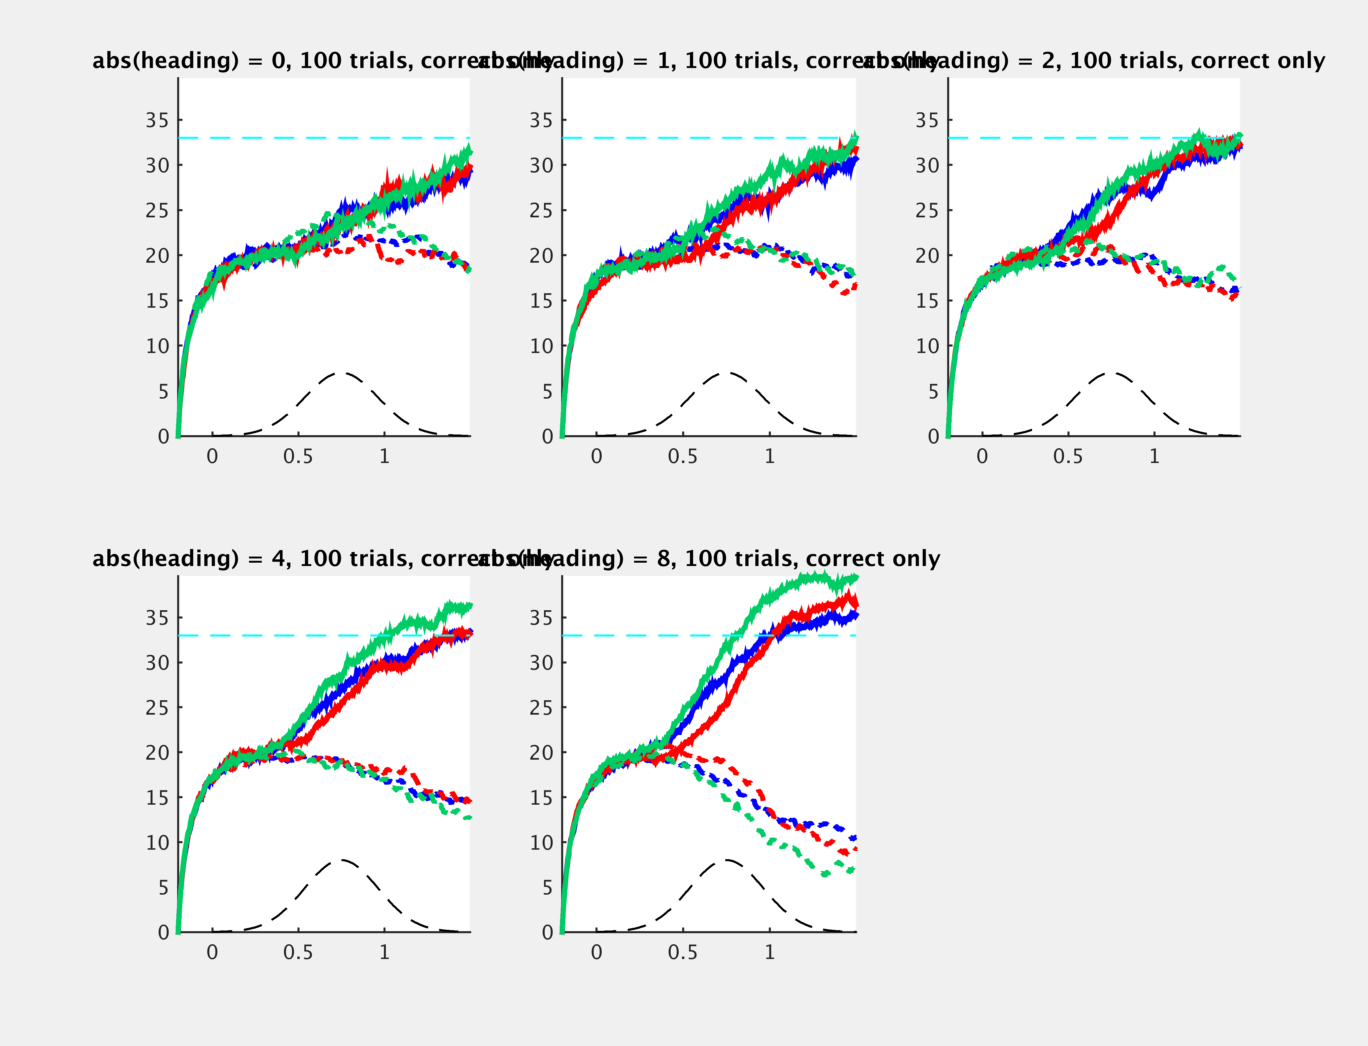
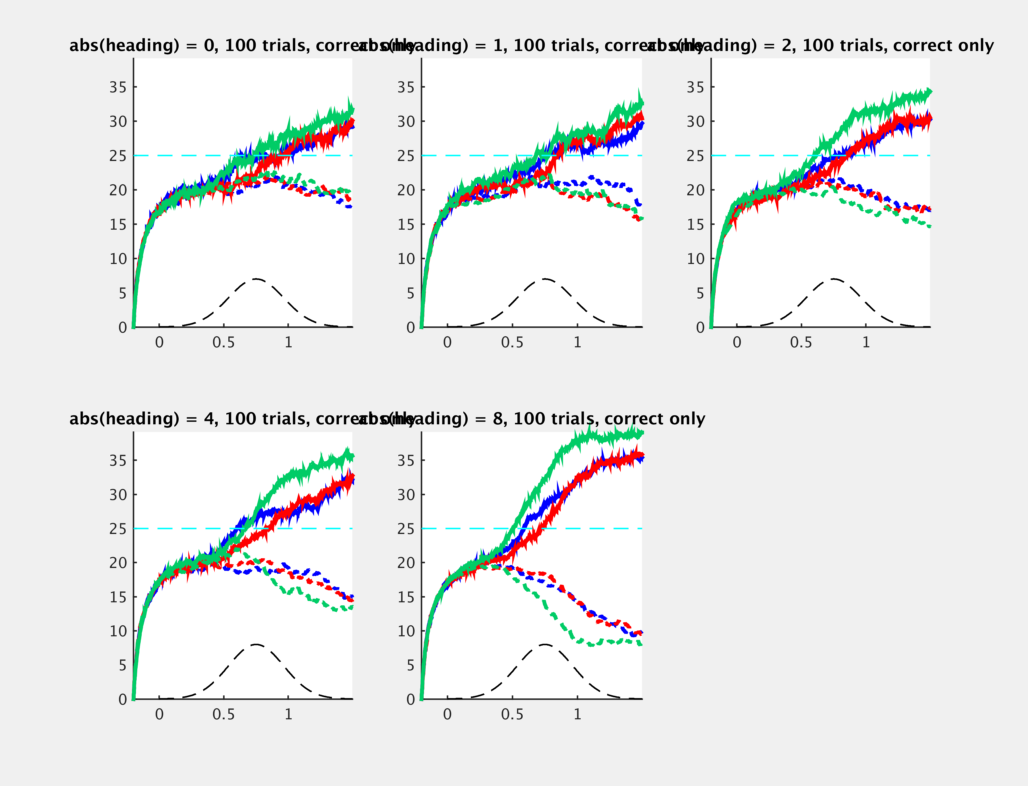
20170420 Smoothed decision-bound, improved figures, export_fig

diff --git a/lip_HH.m b/lip_HH.m
@@ -3,10 +3,11 @@
 % Modified by HH 2017 @ UNIGE
 % Adapted for the vestibular-visual multisensory heading discrimintation task
 %%%%%%%%%%%%%%%%%%%%%%%%%%%%%%%%%%%%%%%%%%%%%%
-% function lip_HH
-tic
-clear
-clear global
+function lip_HH
+
+total_time = tic;
+%clear
+%clear global
 
 if(~isdeployed)
   cd(fileparts(which(mfilename)));
@@ -14,8 +15,9 @@ end
 addpath(genpath(pwd));
 
 if strcmp(version('-release'),'2014b')    % ION cluster;
+   hostname = char( getHostName( java.net.InetAddress.getLocalHost)) % Get host name
    if isempty(gcp('nocreate'))
-       parpool(20);
+       parpool(hostname(1:strfind(hostname,'.')-1),20);
    end
 end
 
@@ -57,9 +59,9 @@ prefs_lip = linspace(-180,180,N_lip);
 %%%%%%%%%%%%%%%%%%%%%%%%%%%%%%%%%%%%%%%%%%%%%%%%%%%%%%%
 % Decision bound
 if_bounded = 1; % if_bounded = 1 means that the trial stops at the bound (reaction time version)
-f_bound = @(x) max(x);
+% f_bound = @(x) max(x);  % A bug: if lip_HH is a function, this anonymous function cannot be broadcasted into parfor loop
 %  f_bound = @(x) abs(x(right_targ_ind)-x(left_targ_ind));
-decis_thres = 33*[1 1 1]; % bound height, for different conditions
+decis_thres = 30*[1 1 1+6/30]; % bound height, for different conditions
 att_gain_stim_after_hit_bound = [0 0 0];
 %%%%%%%%%%%%%%%%%%%%%%%%%%%%%%%%%%%%%%%%%%%%%%%%%%%%%%%
 
@@ -85,7 +87,7 @@ unique_heading = [0 1 2 4 8];
 unique_condition = [1 2 3];
 % unique_heading = [0 8];
 % unique_condition = [3];
-N_trial = 100; % For each condition
+N_trial = 50; % For each condition
 %%%%%%%%%%%%%%%%%%%%%%%%%%%%%%%%%%%%%%%%%%%%%%%%%%%
 
 
@@ -201,7 +203,7 @@ threshold_int = 0.0;
 %%%%%%%%%%%%%%%%%%%%%%%%%%%%%%%%%%%%%%
 g_w_lip_int = 12;
 K_lip_int = 5;
-dc_w_lip_int = -4.2;
+dc_w_lip_int = -4.3;
 
 amp_I_lip_int = 0;  % Mexico hat shape
 K_lip_int_I = 2;
@@ -211,7 +213,7 @@ K_lip_int_I = 2;
 %%%%%%%%%%%%%%%%%%%%%%%%%%%%%%%%%%%%%%
 g_w_lip_lip = 10;
 K_lip_lip = 20;
-dc_w_lip_lip = -8;
+dc_w_lip_lip = -6;
 
 amp_I_lip = 0;  % Mexico hat shape
 K_lip_I = 2;
@@ -243,7 +245,7 @@ fisher_N_window = 4;
 % 1. firing rate in Hz (rate_xxx),
 % 2. firing probability for each bin (proba_xxx),
 % 3. binary spike train for each bin (spikes_xxx)
-% The network dynamics are computed like: Rate_in --> Prob_in --> Spike_in --> Spike_out --> Rate_out
+% The network dynamics are computed like: Rate_in --> Prob_in --> Spike_in --> Spikes_out --> Rate_out
 
 aux1_rate_int = zeros(N_int,trial_dur_total_in_bins+2);
 aux2_rate_int = zeros(N_int,trial_dur_total_in_bins+2);
@@ -290,12 +292,12 @@ w_lip_lip = zeros(N_lip,N_lip);
 for nn=1:N_int
     
     % -- VIS->Int, Vest->Int --
-    %     w_int_vis(nn,:) = g_w_int_vis/N_vis *(exp(K_int_vis * (cos((prefs_int(nn)-(-90*(prefs_vis<0)+90*(prefs_vis>0)))/180*pi)-1)))...
-    %         .* abs(sin(prefs_vis/180*pi))... % Gaussian(theta_int - +/-90) * Sin(heading)
-    %         + dc_w_int_vis/N_vis;   % Offset
-    %     w_int_vest(nn,:) = g_w_int_vest/N_vest *(exp(K_int_vest * (cos((prefs_int(nn)-(-90*(prefs_vest<0)+90*(prefs_vest>0)))/180*pi)-1)))...
-    %         .* abs(sin(prefs_vest/180*pi))... % Gaussian(theta_int - +/-90) * Sin(heading)
-    %         + dc_w_int_vest/N_vest;   % Offset
+%         w_int_vis(nn,:) = g_w_int_vis/N_vis *(exp(K_int_vis * (cos((prefs_int(nn)-(-90*(prefs_vis<0)+90*(prefs_vis>0)))/180*pi)-1)))...
+%             .* abs(sin(prefs_vis/180*pi))... % Gaussian(theta_int - +/-90) * Sin(heading)
+%             + dc_w_int_vis/N_vis;   % Offset
+%         w_int_vest(nn,:) = g_w_int_vest/N_vest *(exp(K_int_vest * (cos((prefs_int(nn)-(-90*(prefs_vest<0)+90*(prefs_vest>0)))/180*pi)-1)))...
+%             .* abs(sin(prefs_vest/180*pi))... % Gaussian(theta_int - +/-90) * Sin(heading)
+%             + dc_w_int_vest/N_vest;   % Offset
     
     % Added a K_int_vis_sin factor to tweak the slices of weight matrix along the vis/vest axis (sigmoid --> step)
     w_int_vis(nn,:) = g_w_int_vis/N_vis *(exp(K_int_vis * (cos((prefs_int(nn)-(-90*(prefs_vis<0)+90*(prefs_vis>0)))/180*pi)-1)))...
@@ -390,6 +392,7 @@ w_cov_vest = real(sqrtm(cov_vest));
 %%%%%%%%%%%%%%%%%%%%%%%%%%%
 %% Main loop
 %%%%%%%%%%%%%%%%%%%%%%%%%%%
+par_time = tic;
 
 % === To reduce the overheads, I put all conditions*heading*reps into a large matrix. HH20170417 ===
 [x,y]=meshgrid(1:length(unique_condition),1:length(unique_heading));
@@ -476,8 +479,9 @@ parfor_progress(n_parfor_loops);
 parfor tt = 1:n_parfor_loops % For each trial
     
     % -- Get data from cheat sheet --
-    cc_this = cc_hh_cheatsheet(tt,1);
-    hh_this = cc_hh_cheatsheet(tt,2);
+    cond_this = cc_hh_cheatsheet(tt,:);
+    cc_this = cond_this(1);
+    hh_this = cond_this(2);
     
     % -- Target input spike train --
     spikes_target_this = rand(N_lip,trial_dur_total_in_bins)<(aux_proba_target);
@@ -554,7 +558,9 @@ parfor tt = 1:n_parfor_loops % For each trial
         
         % -- Termination --
         if if_bounded && k*dt>stim_on_time && att_gain_stim == 1 ...
-                && (f_bound(decision_ac(:,k+1)) > decis_thres_this)
+               ... && (max(decision_ac(:,k+1)) > decis_thres_this) 
+                && max(mean(mean(decision_ac(left_targ_ind-5:left_targ_ind+5,max(1,k-20):k+1))),...
+                       mean(mean(decision_ac(right_targ_ind-5:right_targ_ind+5,max(1,k-20):k+1)))) > decis_thres_this
             % Set the attention for motion stimuli to zero
             att_gain_stim = att_gain_this;
             RT(tt) = (k-stim_on_time_in_bins)*dt;
@@ -590,22 +596,24 @@ rate_int = reshape(rate_int,N_lip,trial_dur_total_in_bins,N_trial,length(unique_
 rate_lip = reshape(rate_lip,N_lip,trial_dur_total_in_bins,N_trial,length(unique_heading),length(unique_condition));
 RT = reshape(RT,N_trial,length(unique_heading),length(unique_condition));
 
+par_time = toc(par_time)
 
 %% == Plotting example network activities ==
 to_plot_heading = length(unique_heading);
 to_plot_cond = length(unique_condition);
 
-rate_real_vis_aver = nanmean(spikes_vis(:,:,:,to_plot_heading,to_plot_cond),3)/dt;
-rate_real_vest_aver = nanmean(spikes_vest(:,:,:,to_plot_heading,to_plot_cond),3)/dt;
-rate_expected_int_aver = nanmean(rate_int(:,:,:,to_plot_heading,to_plot_cond),3);
-rate_expected_lip_aver = nanmean(rate_lip(:,:,:,to_plot_heading,to_plot_cond),3);
-rate_real_int_aver = nanmean(spikes_int(:,:,:,to_plot_heading,to_plot_cond),3)/dt;
-rate_real_lip_aver = nanmean(spikes_lip(:,:,:,to_plot_heading,to_plot_cond),3)/dt;
-rate_real_targ_aver = nanmean(spikes_target(:,:,:,to_plot_heading,to_plot_cond),3)/dt;
-
 % %{
 %%  ====== Animation ======
 if if_debug
+    
+    rate_real_vis_aver = nanmean(spikes_vis(:,:,:,to_plot_heading,to_plot_cond),3)/dt;
+    rate_real_vest_aver = nanmean(spikes_vest(:,:,:,to_plot_heading,to_plot_cond),3)/dt;
+    rate_expected_int_aver = nanmean(rate_int(:,:,:,to_plot_heading,to_plot_cond),3);
+    rate_expected_lip_aver = nanmean(rate_lip(:,:,:,to_plot_heading,to_plot_cond),3);
+    rate_real_int_aver = nanmean(spikes_int(:,:,:,to_plot_heading,to_plot_cond),3)/dt;
+    rate_real_lip_aver = nanmean(spikes_lip(:,:,:,to_plot_heading,to_plot_cond),3)/dt;
+    rate_real_targ_aver = nanmean(spikes_target(:,:,:,to_plot_heading,to_plot_cond),3)/dt;
+    
     figure(1001); clf
     
     for ttt = 1:10:length(ts)
@@ -671,7 +679,7 @@ end
 
 % ====== Example Pref and Null traces ======
 %%{
-if if_debug
+if if_debug || 1
     set(figure(1002),'name','Example PSTHs'); clf;
     set(gcf,'uni','norm','pos',[0.003       0.039       0.555       0.878]);
     
@@ -718,7 +726,59 @@ if if_debug
         %     title(sprintf('averaged of all %g trials (correct + wrong), pref-null',N_trial));
         %     axis tight;
     end
+    export_fig('-painters','-nocrop','-m1.5' ,sprintf('./result/example_8degree_%s.png',hostname));
+    
+    to_plot_heading  = 1; 
+    set(figure(1003),'name','Example PSTHs'); clf;
+    set(gcf,'uni','norm','pos',[0.003       0.039       0.555       0.878]);
+    
+    for cc = 1:length(unique_condition)
+        % --- LIP ---
+        subplot(3,2,2*unique_condition(cc)-1);
+        
+        for trialtoplot = 1:ceil(N_trial/10):N_trial
+            plot(ts,rate_lip(right_targ_ind,:,trialtoplot,to_plot_heading,cc),'color',colors(unique_condition(cc),:),'linewid',2); hold on;
+            plot(ts,rate_lip(left_targ_ind,:,trialtoplot,to_plot_heading,cc),'--k','linewid',1);
+        end
+        plot(t_motion,vel/max(vel)*max(ylim)/3,'k--');
+        axis tight;
+        
+        if if_bounded
+            plot(xlim,[decis_thres(unique_condition(cc)) decis_thres(unique_condition(cc))],'c--');
+            %         ylim([min(ylim),decis_thres(k)*1.1]);
+        end
+        
+        title(sprintf('rate\\_lip, heading = %g, coh = %g',unique_heading(to_plot_heading),coherence));
+        
+        % --- Int ---
+        subplot(3,2,2*unique_condition(cc));
+        
+        for trialtoplot = 1:ceil(N_trial/10):N_trial
+            plot(ts,rate_int(right_targ_ind,:,trialtoplot,to_plot_heading,cc),'color',colors(unique_condition(cc),:),'linewid',2); hold on;
+            plot(ts,rate_int(left_targ_ind,:,trialtoplot,to_plot_heading,cc),'--k','linewid',1);
+        end
+        plot(t_motion,vel/max(vel)*max(ylim)/3,'k--');
+        axis tight;
+        
+        %     if if_bounded
+        %         plot(xlim,[decis_thres(unique_condition(cc)) decis_thres(unique_condition(cc))],'c--');
+        % %         ylim([min(ylim),decis_thres*1.1]);
+        %     end
+        
+        title(sprintf('rate\\_int, heading = %g, coh = %g',unique_heading(to_plot_heading),coherence));
+        
+        
+        %     subplot(3,2,2);
+        %     plot(ts,nanmean(rate_lip(right_targ_ind,:,:,to_plot_heading,cc),3)...
+        %         -nanmean(rate_lip(left_targ_ind,:,:,to_plot_heading,cc),3),'color',colors(unique_condition(cc),:),'linew',2);
+        %     hold on;
+        %     title(sprintf('averaged of all %g trials (correct + wrong), pref-null',N_trial));
+        %     axis tight;
+    end
+    export_fig('-painters','-nocrop','-m1.5' ,sprintf('./result/example_0degree_%s.png',hostname));
+    
 end
+
 %}
 
 % ====== Behavior performance ======
@@ -760,24 +820,30 @@ for cc = 1:length(unique_condition)
         
         RT_this_cc_mean(hh,1) = mean(RT(select_correct,hh,cc),1);
         RT_this_cc_se(hh,1) = std(RT(select_correct,hh,cc),[],1);
+        
+        RT_this_cc_mean_wrong(hh,1) = mean(RT(~select_correct,hh,cc),1);
+        RT_this_cc_se_wrong(hh,1) = std(RT(~select_correct,hh,cc),[],1);
+
     end
     
     errorbar(unique_heading+(cc-2)*0.2,RT_this_cc_mean,RT_this_cc_se,'o-','color',colors(unique_condition(cc),:),...
         'markerfacecolor',colors(unique_condition(cc),:),'markersize',10,'linew',2);
     hold on;
-    
-    plot(vel/max(vel)*max(xlim)/5,t_motion,'k--');
-    title(sprintf('RT, all trials (correct + wrong), Bound = %s',num2str(decis_thres)));
-
-
+    errorbar(unique_heading+(cc-2)*0.2,RT_this_cc_mean_wrong,RT_this_cc_se_wrong,'o--','color',colors(unique_condition(cc),:),...
+        'markerfacecolor',colors(unique_condition(cc),:),'markersize',7,'linew',1);
 end
 
+subplot(2,1,2);
+plot(vel/max(vel)*max(xlim)/5,t_motion,'k--');
+title(sprintf('RT, all trials (correct), Bound = %s',num2str(decis_thres)));
+
+subplot(2,1,1);
 if length(unique_condition) == 3
     pred_thres = (psycho(1,2)^(-2)+psycho(2,2)^(-2))^(-1/2);
     set(text(min(xlim),0.4+0.1*(cc+1),sprintf('pred = %g\n',pred_thres)),'color','k');
 end
 
-%  export_fig('-painters','-nocrop','-q100','-m2' ,sprintf('./result/behavior.png'));
+export_fig('-painters','-nocrop','-m1.5' ,sprintf('./result/behavior_%s.png',hostname));
 %}
 
 %% ===== Averaged PSTH, different angles =====
@@ -827,7 +893,7 @@ for hh = 1:length(unique_heading)
 end
 
 set(findobj(435,'type','axes'),'ylim',[y_min y_max]);
-% export_fig('-painters','-nocrop','-q100','-m2' ,sprintf('./result/PSTH.png'));
+export_fig('-painters','-nocrop','-m1.5' ,sprintf('./result/PSTH_%s.png',hostname));
 
 % =====  Delta-PSTH (stim type), heading, correct only ====
 set(figure(436),'name','Delta PSTH'); clf;
@@ -849,10 +915,10 @@ for hh = 1:length(unique_heading)
     axis tight;
 end
 set(findobj(436,'type','axes'),'ylim',[y_min y_max]);
-% export_fig('-painters','-nocrop','-q100','-m2' ,sprintf('./result/deltaPSTH.png'));
+export_fig('-painters','-nocrop','-m1.5' ,sprintf('./result/deltaPSTH_%s.png',hostname));
 
 %}
 
-toc
+total_time = toc(total_time)
 
 

diff --git a/test_par.m b/test_par.m
@@ -1,0 +1,34 @@
+% rep = 1;
+% 
+% for del_cor = 0:14 % From 29 workers to 1 worker
+% 	delete(gcp('nocreate'));
+% 	parpool('node03',29-del_cor*2);
+% 	
+% 	for r = 1:rep
+% 		lip_HH;
+% 		times(del_cor+1,1,r)=par_time;
+% 		times(del_cor+1,2,r)=total_time
+% 	end
+% 	
+% 	eval(sprintf('!stopworker -clean -name node03.local_worker%02g',29-del_cor*2)); 
+%         eval(sprintf('!stopworker -clean -name node03.local_worker%02g',29-del_cor*2-1));
+% 
+% 	pause(10);
+% end
+rep = 10;
+times = [];
+n_cores = [55:-1:10 1];
+
+for nnnn = 1:length(n_cores)
+	delete(gcp('nocreate'));
+	parpool('node03',n_cores(nnnn));
+    
+	for r = 1:rep
+		lip_HH;
+		times(nnnn,r)=par_time
+		% times(nnnn,2,r)=total_time;
+	end
+	nanmean(times,2)
+end
+
+save times times n_cores
